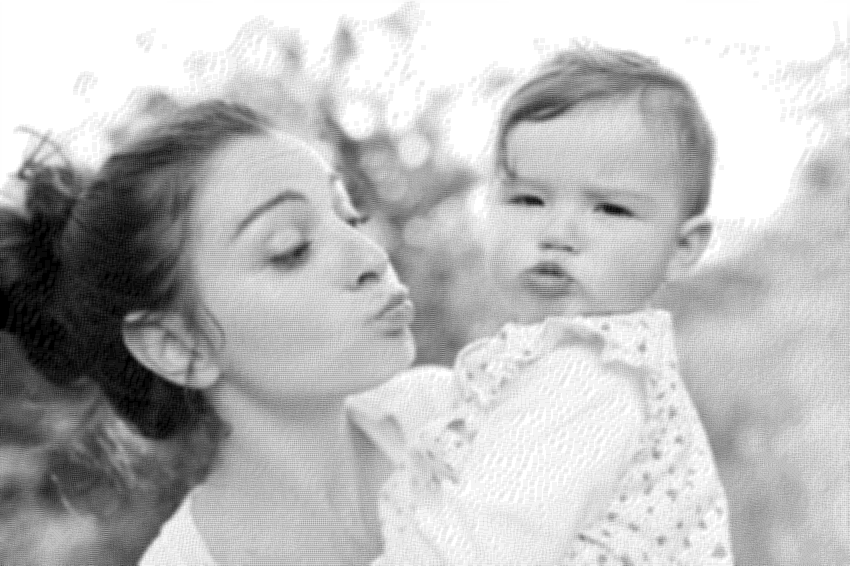
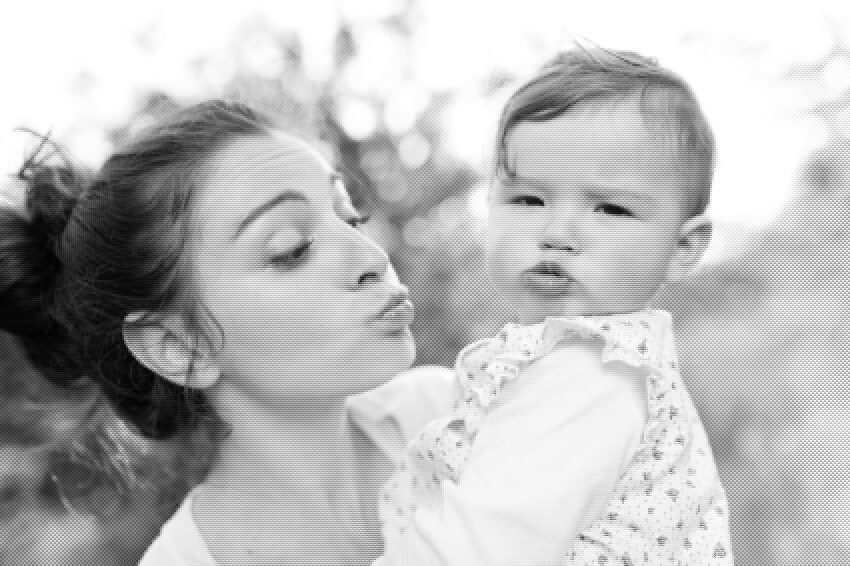
Assertivas e apresentação

diff --git a/distortion_simulator.py b/distortion_simulator.py
@@ -4,35 +4,40 @@ import numpy as np
 
 # Função que aplica uma difusão de erros usando o método de Floyd-Steinberg.
 def error_diffusion(img, size=(1, 1)):
-	img = np.float32(img)
+        img = np.float32(img)
 
-	for y in range(0, size[1] - 1):
-		for x in range(1, size[0] - 1):
-			old_pixel = img[x, y]
-			img[x, y] = 255 if old_pixel > 127 else 0
-			quant_error = old_pixel - img[x, y]
-			img[x + 1, y] = img[x + 1, y] + 7 / 16.0 * quant_error
-			img[x - 1, y + 1] = img[x - 1, y + 1] + 3 / 16.0 * quant_error
-			img[x, y + 1] = img[x, y + 1] + 5 / 16.0 * quant_error
-			img[x + 1, y + 1] = img[x + 1, y + 1] + 1 / 16.0 * quant_error
-	return img
+        for y in range(0, size[1] - 1):
+                for x in range(1, size[0] - 1):
+                        old_pixel = img[x, y]
+                        img[x, y] = 255 if old_pixel > 127 else 0
+                        quant_error = old_pixel - img[x, y]
+                        img[x + 1, y] = img[x + 1, y] + 7 / 16.0 * quant_error
+                        img[x - 1, y + 1] = img[x - 1, y + 1] + 3 / 16.0 * quant_error
+                        img[x, y + 1] = img[x, y + 1] + 5 / 16.0 * quant_error
+                        img[x + 1, y + 1] = img[x + 1, y + 1] + 1 / 16.0 * quant_error
+        return img
 
 
 # Função que simula a distorção gerada pelo processo de impressão seguida de digitalização
 def print_scan(img_name, K=1):
 
-	img = cv2.imread('Texturizadas/%s' % img_name, 0)
+        img = cv2.imread('Texturizadas/%s' % img_name, 0)
+        if img is None:
+                print("Imgagem %s não encontrada na pasta Texturizadas" % img_name)
+                return -1
 
-	#redimensiona a imagem
-	img = cv2.resize(img, (K * img.shape[1], K * img.shape[0]), interpolation=cv2.INTER_AREA)
+        # redimensiona a imagem
+        img = cv2.resize(img, (K * img.shape[1], K * img.shape[0]), interpolation=cv2.INTER_AREA)
 
-	# aplica um error diffusion
-	img = error_diffusion(img, img.shape)
-	# aplica um filtro de média
-	kernel = np.ones((5, 5), np.float32) / 25
-	img = cv2.filter2D(img, -1, kernel)
-	img = np.uint8(img)
-	#volta a imagem para o tamanho original
-	img = cv2.resize(img, (int(img.shape[1] / K), int(img.shape[0] / K)), interpolation=cv2.INTER_AREA)
+        # aplica um error diffusion
+        img = error_diffusion(img, img.shape)
+        # aplica um filtro de média
+        kernel = np.ones((5, 5), np.float32) / 25
+        img = cv2.filter2D(img, -1, kernel)
+        img = np.uint8(img)
+        # volta a imagem para o tamanho original
+        img = cv2.resize(img, (int(img.shape[1] / K), int(img.shape[0] / K)), interpolation=cv2.INTER_AREA)
 
-	cv2.imwrite('Texturizadas/%s' % img_name, img)
+        cv2.imwrite('Texturizadas/%s' % img_name, img)
+
+        return 1

diff --git a/main.py b/main.py
@@ -13,15 +13,32 @@ if __name__ == "__main__":
                 printar = 1
 
         if '--all' in sys.argv:
+                print("Processando para todas as imagens da pasta")
+                print("Imagens...")
+                print("Isso pode demorar um pouco")
                 for fl in glob.glob("Imagens/*.png"):
                         inc.color_incorporation(fl[8:], printar)
-                        sdist.print_scan(fl[8:])
                         rec.color_recover(fl[8:], printar)
-                                     
+
         else:
                 print("Digite o nome da imagem que você deseja transformar:")
                 img_name = input()
 
-                inc.color_incorporation(img_name, printar)
-                sdist.print_scan(img_name)
-                rec.color_recover(img_name, printar)
+                simulation = -1
+                while(simulation < 0 or simulation > 1):
+                        print("\nSimular impressão?")
+                        print("0. Não")
+                        print("1. Sim")
+                        simulation = int(input())
+
+                test = inc.color_incorporation(img_name, printar)
+
+                if test != -1:
+                        if(simulation == 1):
+                                k = int(input("Qual a ordem do resize?\n"))
+                                sdist.print_scan(img_name, k)
+
+                        rec.color_recover(img_name, printar)
+                else:
+                        print("\nPor favor, verifique se digitou o nome da")
+                        print("imagem corretamente e se ela está na pasta Imagens")

diff --git a/color_recovering.py b/color_recovering.py
@@ -8,6 +8,10 @@ import color_incorporation as inc
 # Função que faz todo o procedimento inverso
 def color_recover(name, printar):
         ImgText = cv2.imread('Texturizadas/%s' % name, 0)
+        if ImgText is None:
+                print("Imagem %s não encontrada na pasta Texturizadas" % name)
+                return -1
+
         # ImgText = np.float32(ImgText)
 
         # Fazendo a transformada Wavelet discreta 2D
@@ -54,3 +58,5 @@ def color_recover(name, printar):
                 plt.axis('off')
 
                 plt.show()
+
+        return 1

diff --git a/color_incorporation.py b/color_incorporation.py
@@ -38,6 +38,9 @@ def plus_minus(img):
 # Função que irá criar a imagem texturizada
 def color_incorporation(name, printar):
     img = cv2.imread('Imagens/%s' % name)
+    if img is None:
+        print("Imagem %s não encontrada na pasta Imagens" % name)
+        return -1
 
     # Convertendo a imagem
     ycc = Convert_BGR2YCC(img)
@@ -84,3 +87,5 @@ def color_incorporation(name, printar):
         plt.axis('off')
 
         plt.show()
+
+    return 1
